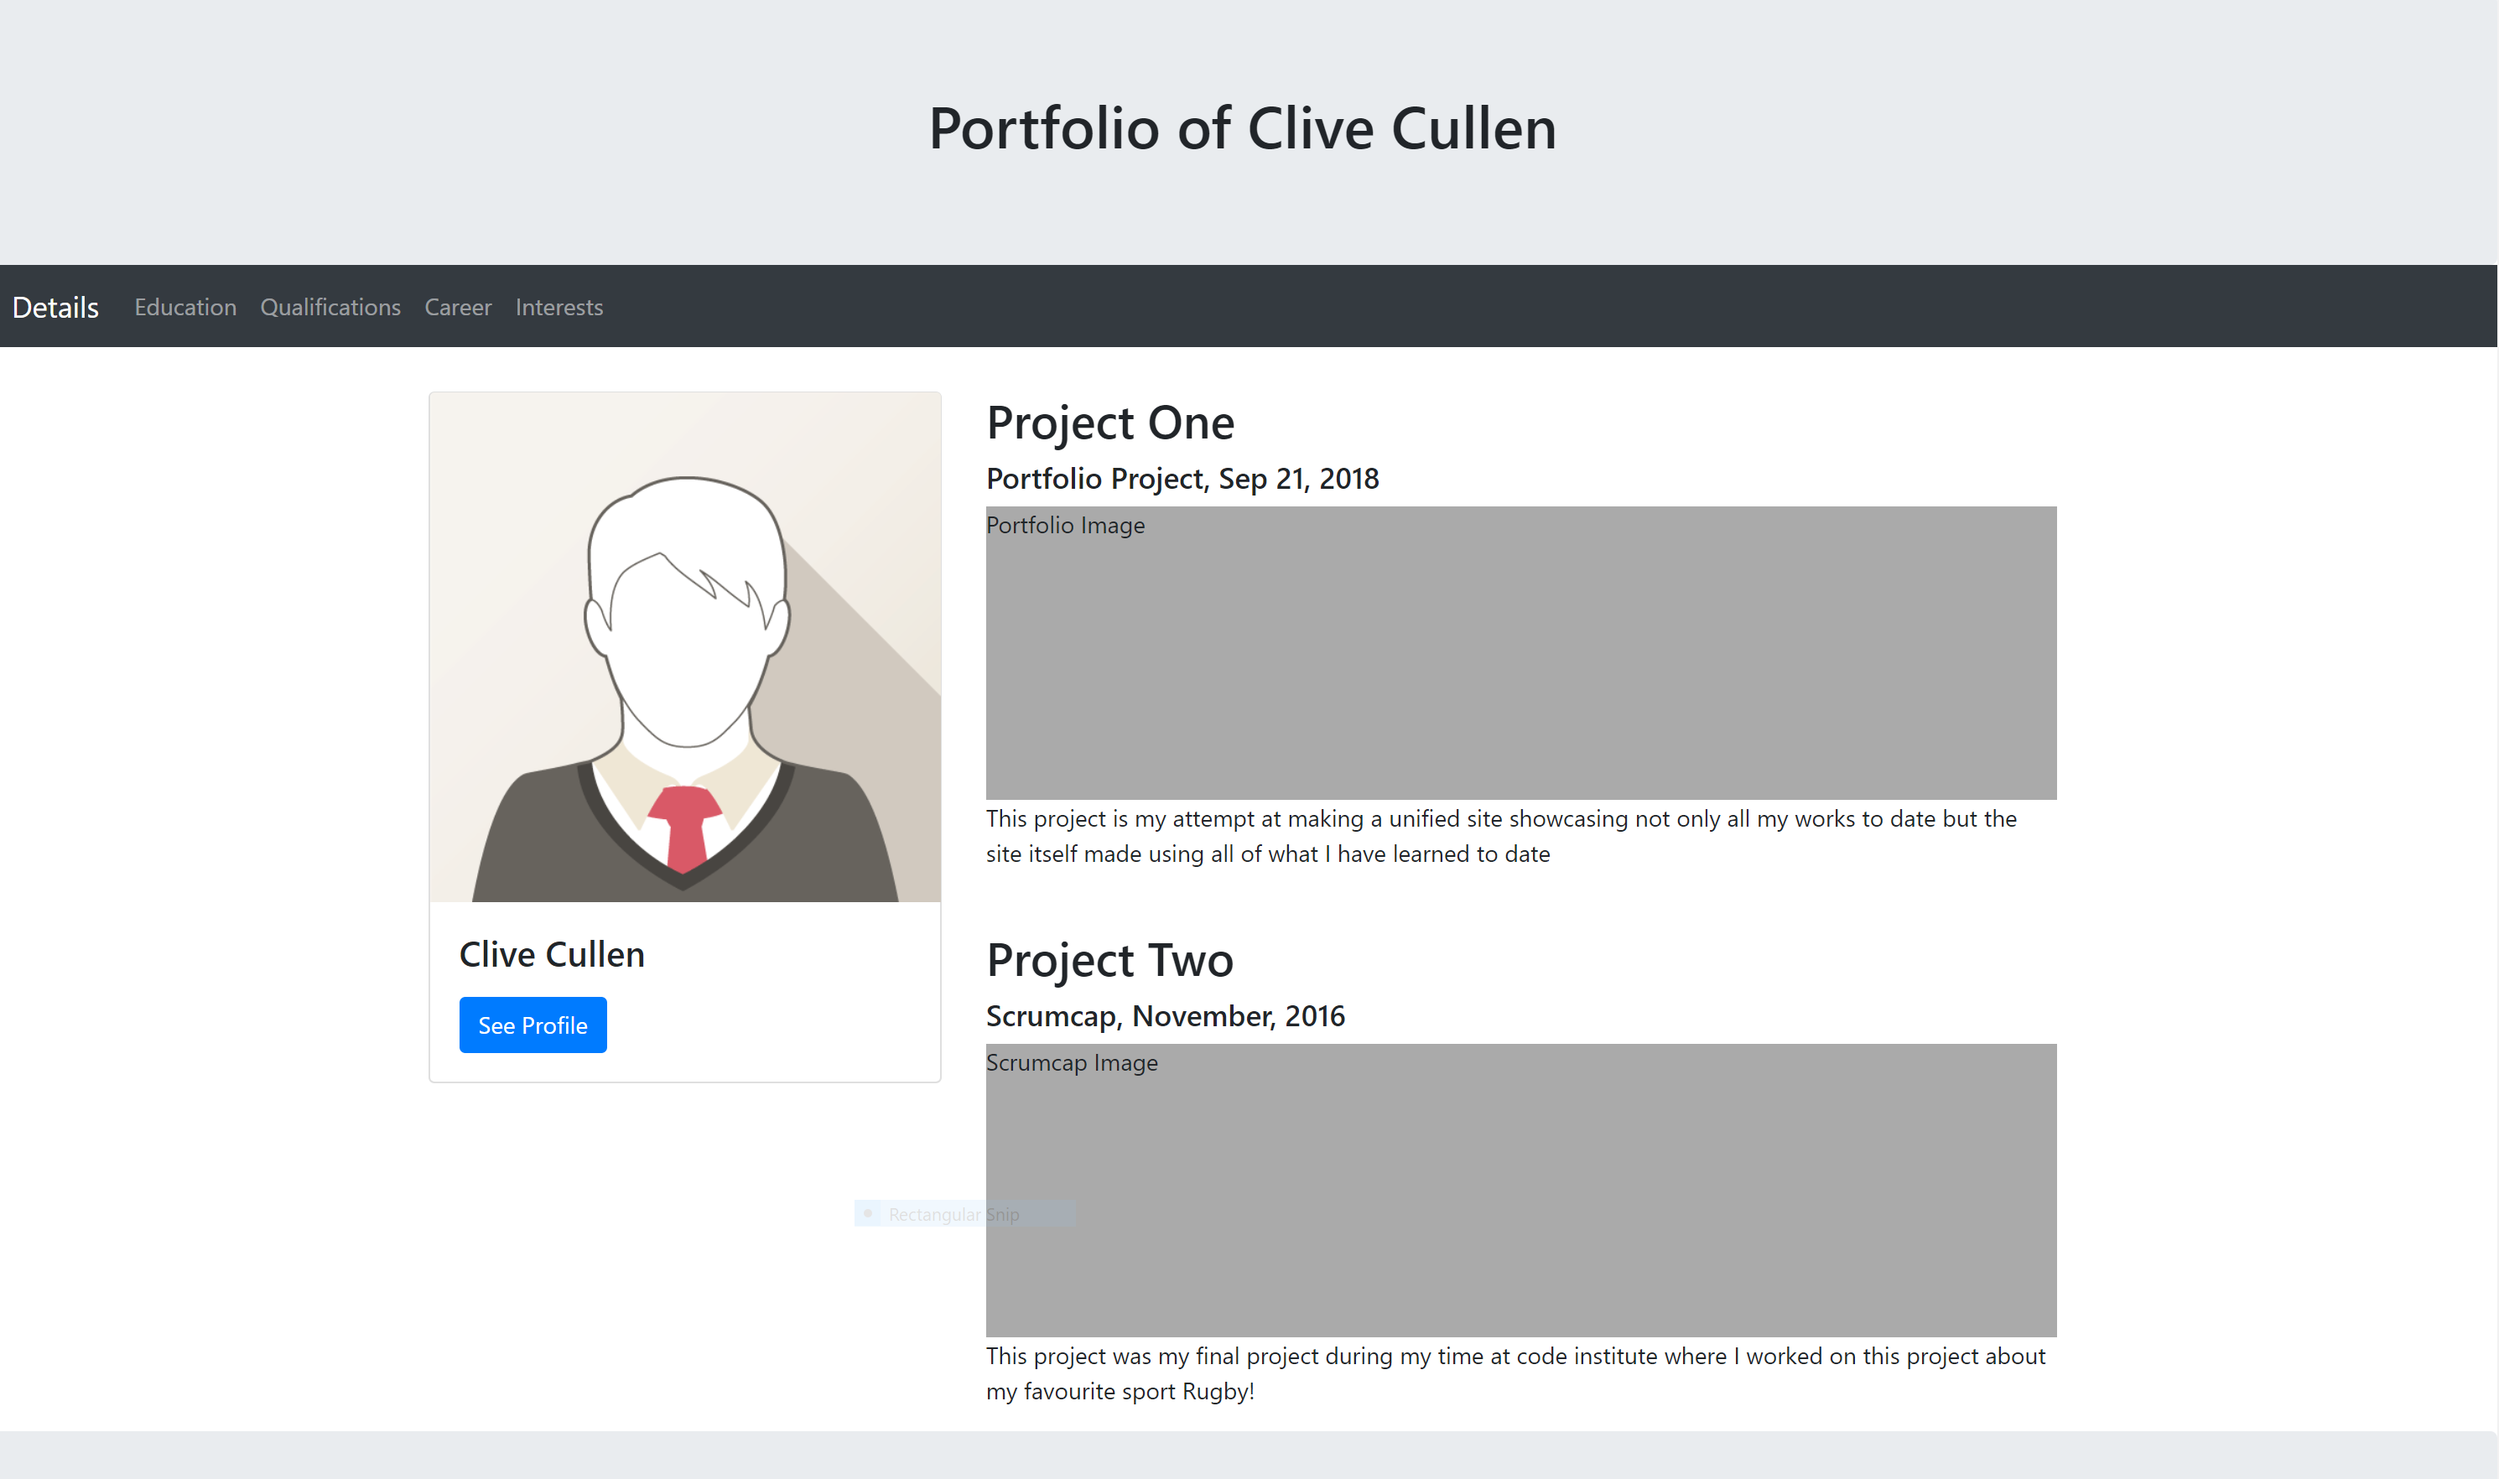
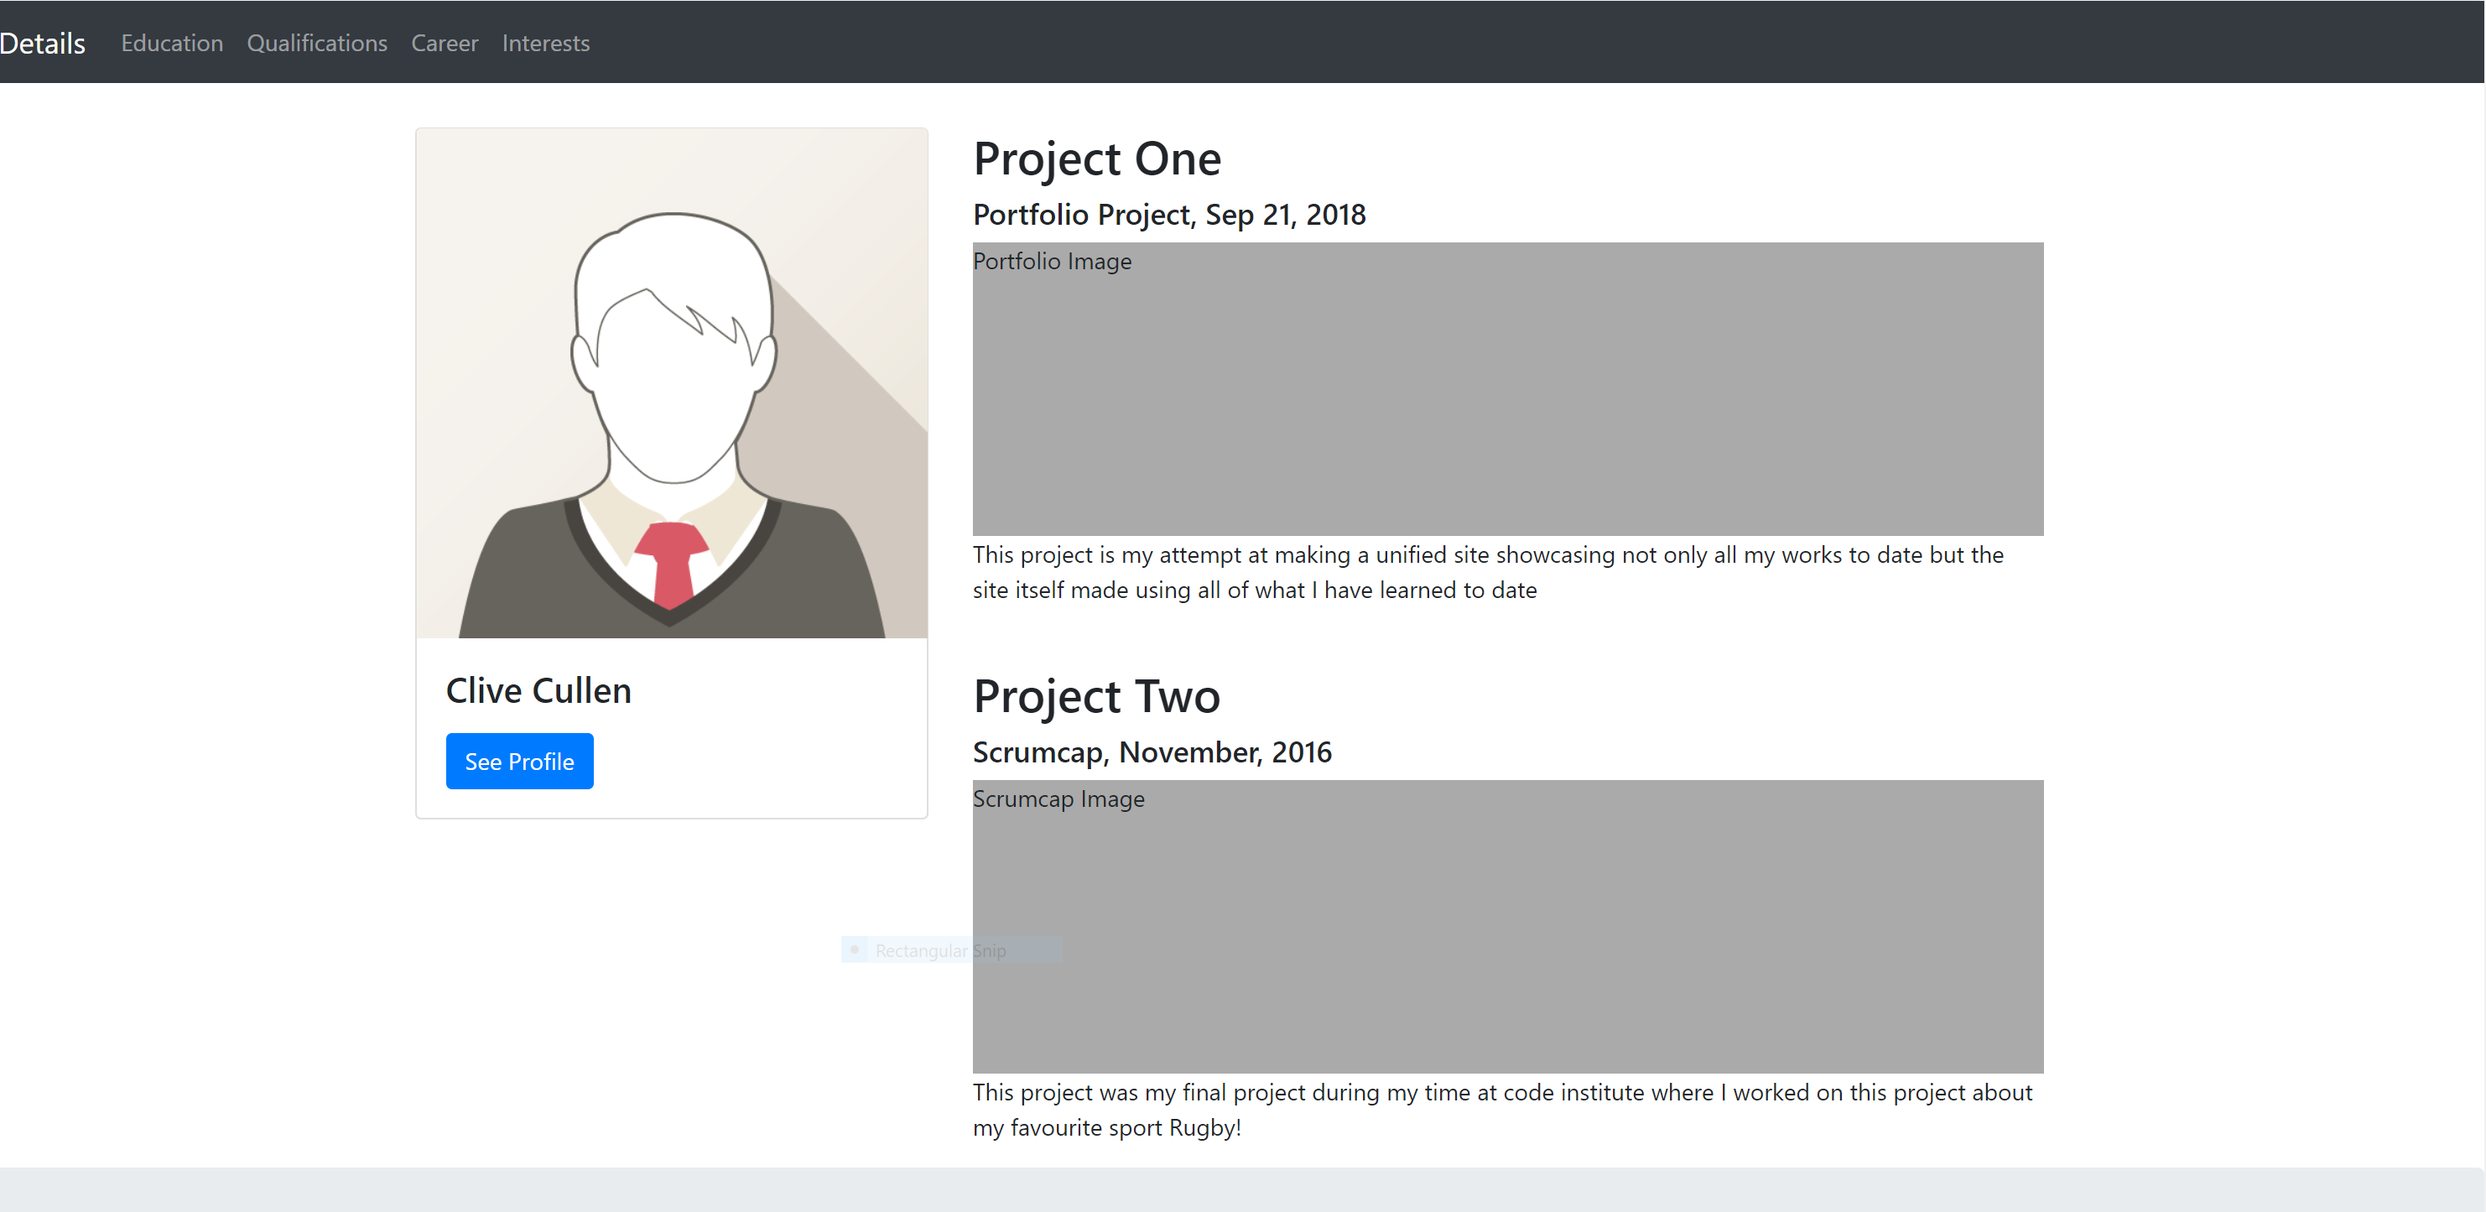
update

diff --git a/index.html b/index.html
@@ -1,7 +1,7 @@
 <!DOCTYPE html>
 <html lang="en">
 <head>
-  <title>Portfolio</title>
+  <title>Portfolio of Clive Cullen</title>
   <meta charset="utf-8">
   <meta name="viewport" content="width=device-width, initial-scale=1">
   <link rel="stylesheet" href="https://maxcdn.bootstrapcdn.com/bootstrap/4.1.3/css/bootstrap.min.css">
@@ -9,7 +9,7 @@
   <script src="https://cdnjs.cloudflare.com/ajax/libs/popper.js/1.14.3/umd/popper.min.js"></script>
   <script src="https://maxcdn.bootstrapcdn.com/bootstrap/4.1.3/js/bootstrap.min.js"></script>
   <style>
-  .footer,.jumbotron {
+  .footer{
       height: 100px;
       background: #aaa;
       color: white  
@@ -22,29 +22,32 @@
       max-height: 40%;
       max-width:80%;
       padding-top: 20px;
+      padding-bottom: 20px;
 
   }
   .row{
-    margin-top: 20px;
+    padding-top: 20px;
+    padding-bottom: 20px;
   }
-  .odd{
+  .even{
     background:#343A40;
-    color: white;
-  }
+    color: black;
+  }*/
   .card{
     color:black;
+    max-width: 90%;
+    height: 100%;
   }
-
+ 
   </style>
 </head>
 <body>
 
-<div class="jumbotron text-center" style="margin-bottom:0">
-  <h3>Portfolio of Clive Cullen</h3>
-  </div>
+
 
 <nav class="navbar navbar-expand-sm bg-dark navbar-dark">
-  <a class="navbar-brand" href="#">Details</a>
+  <a class="navbar-brand" href="#" self align="text-center">Portfolio
+  </a>
   <button class="navbar-toggler" type="button" data-toggle="collapse" data-target="#collapsibleNavbar">
     <span class="navbar-toggler-icon"></span>
   </button>
@@ -65,44 +68,50 @@
     </ul>
   </div>  
 </nav>
-
-
-  <div class="row odd">
+<!-end of nav bar ->
+  <div class="row even">
     <div class="col-xs-12 col-sm-3 col-m-3 col-lg-3 col-xl-3">
-      <div class="card" >
-        <img class="card-img-top" src="img_avatar1.png" alt="Card image">
-        <div class="card-body">
-          <h4 class="card-title">Clive Cullen</h4>
-          <p class="card-text">
-          Age 28<br>
-          Mobile :0851337434<br>
-          Mail :evilc02@gmail.com<br>
-          Favourite Food :Pizza<br>
-          </p>
-    
+      <div class= "container">
+        <div class="card" >
+          <img class="card-img-top" src="img_avatar1.png" alt="Card image">
+          <div class="card-body">
+            <h4 class="card-title">Clive Cullen</h4>
+            <p class="card-text">
+              Age :28<br>
+              Mobile :0851337434<br>
+              Mail :evilc02@gmail.com<br>
+              Favourite Food :Pizza<br>
+            </p>
+          </div>
         </div>
+        </div>
+    </div>
+    <div class="col-xs-12 col-sm-9 col-m-9 col-lg-9 col-xl-9 card ">
+      <h5 class="card-title">Portfolio Project, September , 2018</h5>
+        <div class ="card-body"><img src="portfolio.PNG" class="placeholder"> 
+      </div>
+        
       </div>
     </div>
-    <div class="col-xs-12 col-sm-9 col-m-9 col-lg-9 col-xl-9">
-      <h5>Portfolio Project, Sep 21, 2018</h5>
-      <div><img src="portfolio.PNG" class="placeholder"> </div>
-        <br>
-        <p>This project is my attempt at making a unified site showcasing not only all my works to date but the site itself made using all of what I have learned to date</p>
-        <br>
+<!-end of first row ->
+  <div class="row even">
+    <div class="col-xs-12 col-sm-3 col-m-3 col-lg-3 col-xl-3">
+      <div class= "container">
+        <div class="card" >
+          <div class="card-body">
+            <h4 class="card-title">Scrumcap Rugby Blog</h4>
+            <p class="card-text">
+              This was my final project during my time at Code Institute. I combined most of what I had learned over the twelve weeks with my interest in Rugby.
+            </p>
+          </div>
+        </div>
+        </div>
+    </div>
+    <div class="col-xs-12 col-sm-9 col-m-9 col-lg-9 col-xl-9 card ">
+      <h5 class="card-title">Scrumcap Rugby Blog, November , 2016</h5>
+      <div class ="card-body"><img src="Scrum.PNG" class="placeholder"> 
       </div>
-    </div>
-
-  <div class = "row">
-    <div class="col-xs-12 col-sm-3 col-m-3 col-lg-3 col-xl-3 card-body" align="text-center">
-      <div class ="card-title">Scrumcap Rugby Blog Project, November, 2016</div><br>
-      <p class="card-text">This project was my final project during my time at code institute where I worked on this project about my favourite sport Rugby</p>
-    </div>
-
-    <div class ="col-xs-12 col-sm-9 col-m-9 col-lg-9 col-xl-9">
-      
-      <div><img src="scrum.PNG" class="placeholder"></div>
-          <br>
-         
+        
       </div>
     </div>
 
